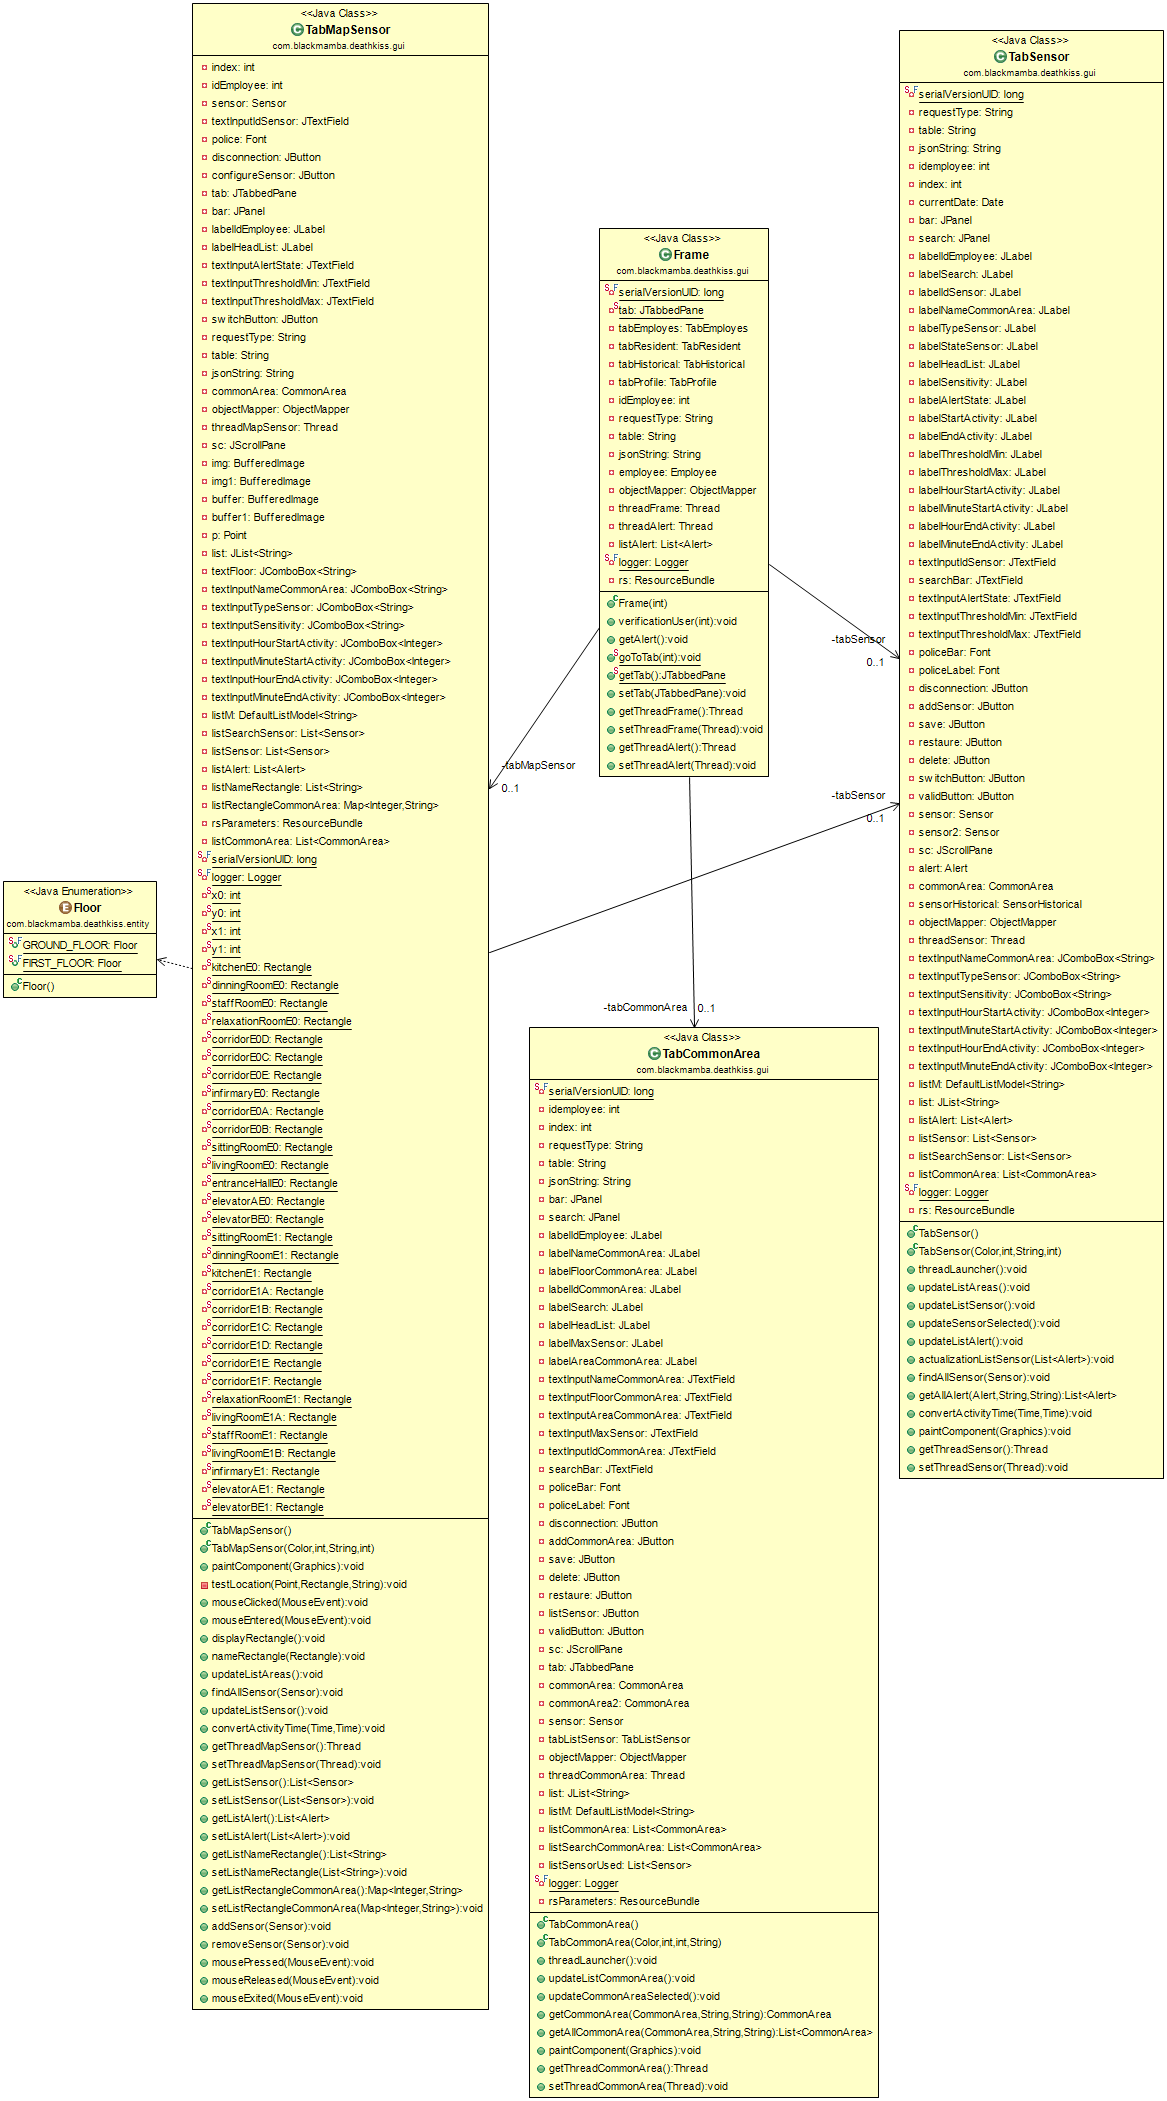
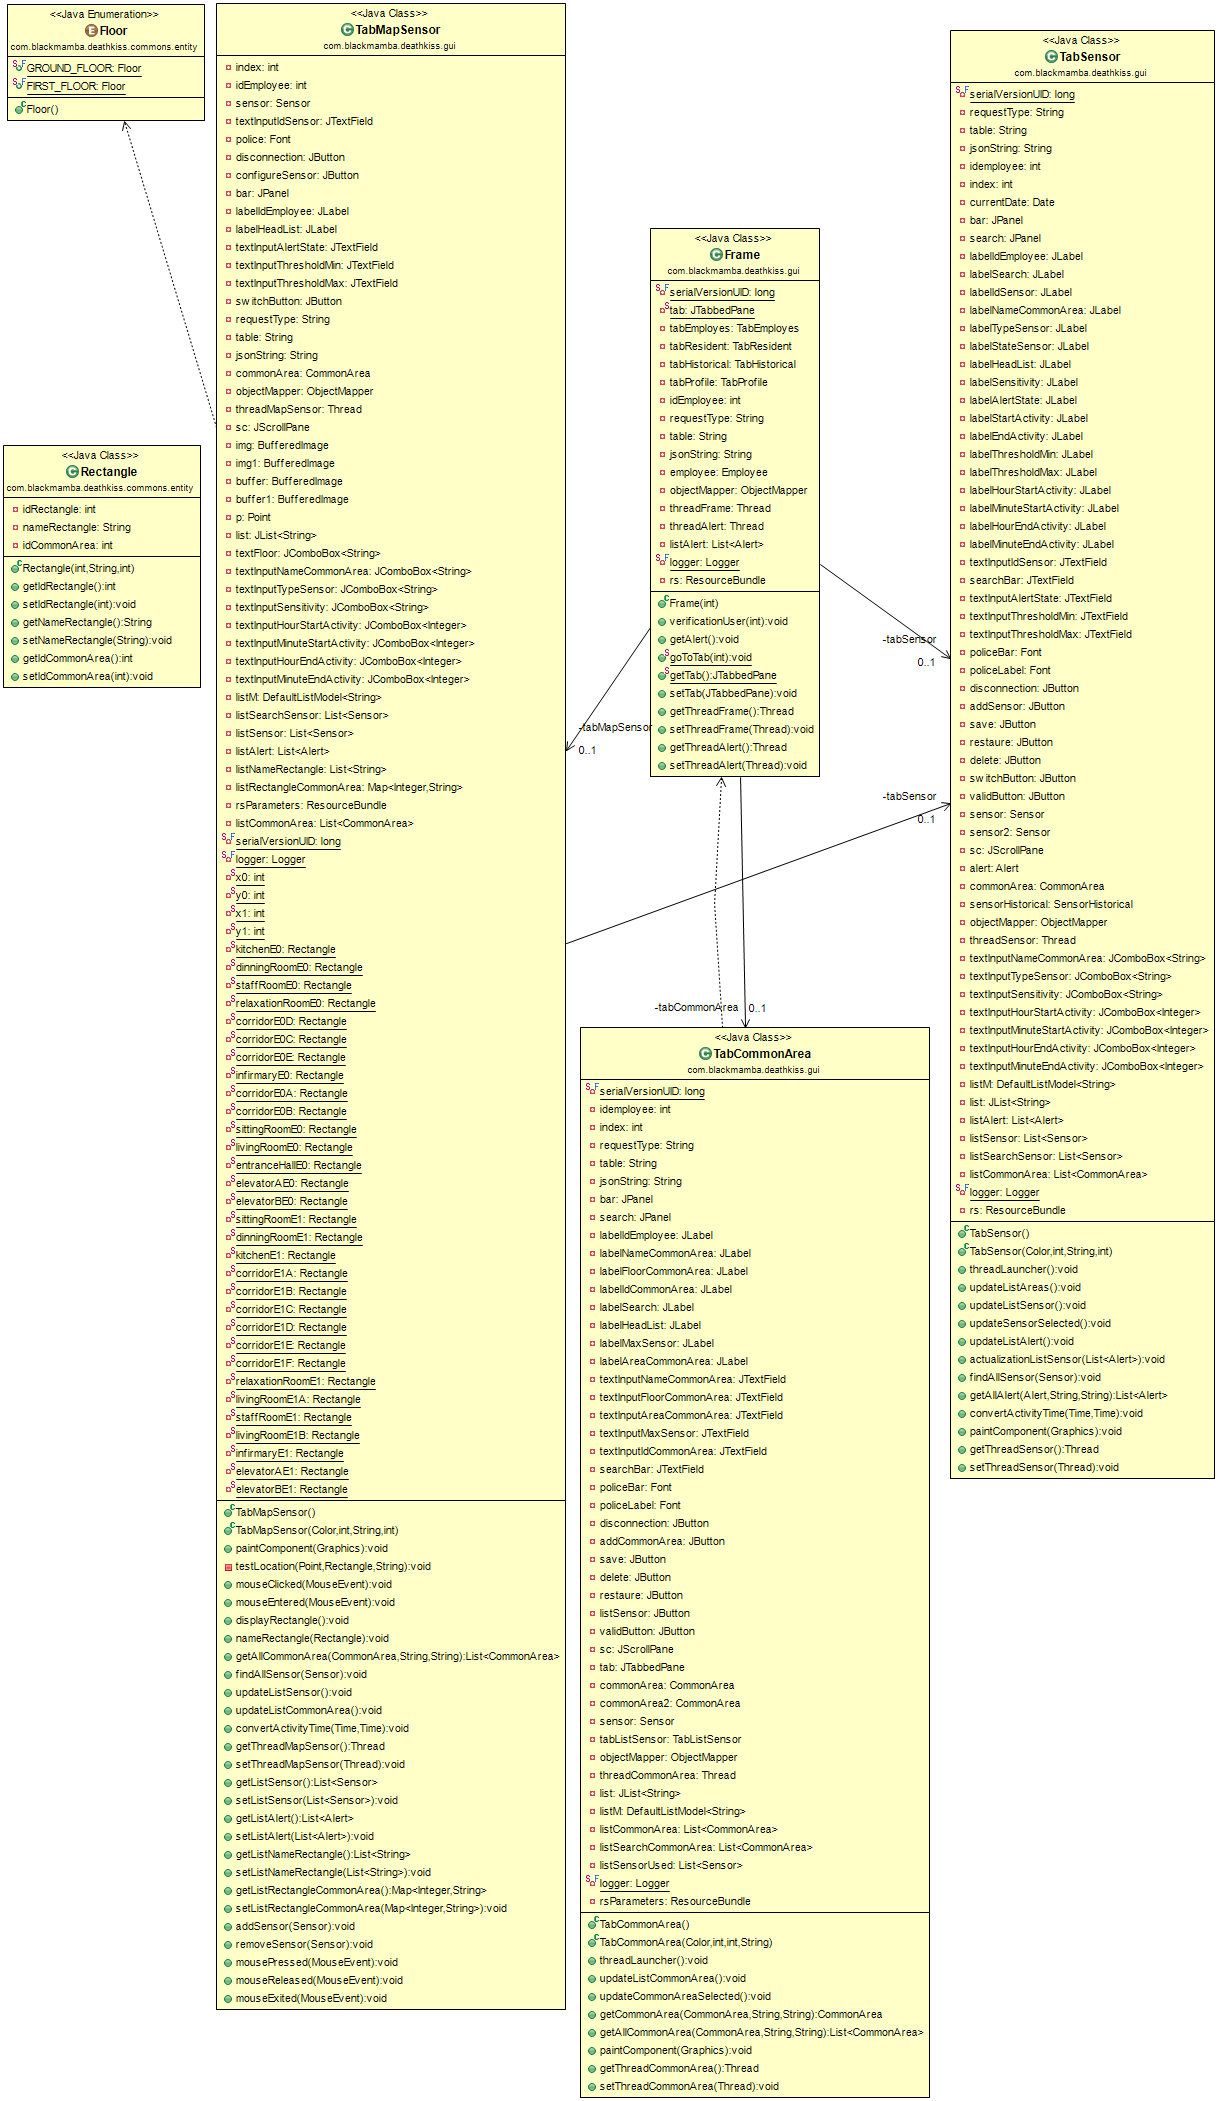
V0.3.19

Changed region(s): [[0.0, 0.0, 1.0, 1.0]]

diff --git a/commons/src/main/java/com/blackmamba/deathkiss/commons/entity/Rectangle.java b/commons/src/main/java/com/blackmamba/deathkiss/commons/entity/Rectangle.java
@@ -1,0 +1,67 @@
+package com.blackmamba.deathkiss.commons.entity;
+
+public class Rectangle {
+
+	/**
+	 * Different parameters used
+	 */
+	private int idRectangle = 0;
+	private String nameRectangle = "";
+	private int idCommonArea = 0;
+	
+	/**
+	 * 
+	 * @param idRectangle
+	 * @param nameRectangle
+	 * @param idCommonArea
+	 */
+	public Rectangle(int idRectangle, String nameRectangle, int idCommonArea) {
+		super();
+		this.idRectangle = idRectangle;
+		this.nameRectangle = nameRectangle;
+		this.idCommonArea = idCommonArea;
+	}
+	/**
+	 * 
+	 * @return
+	 */
+	public int getIdRectangle() {
+		return idRectangle;
+	}
+	/**
+	 * 
+	 * @param idRectangle
+	 */
+	public void setIdRectangle(int idRectangle) {
+		this.idRectangle = idRectangle;
+	}
+	/**
+	 * 
+	 * @return
+	 */
+	public String getNameRectangle() {
+		return nameRectangle;
+	}
+	/**
+	 * 
+	 * @param nameRectangle
+	 */
+	public void setNameRectangle(String nameRectangle) {
+		this.nameRectangle = nameRectangle;
+	}
+	/**
+	 * 
+	 * @return
+	 */
+	public int getIdCommonArea() {
+		return idCommonArea;
+	}
+	/**
+	 * 
+	 * @param idCommonArea
+	 */
+	public void setIdCommonArea(int idCommonArea) {
+		this.idCommonArea = idCommonArea;
+	}
+
+}

diff --git a/gui/src/main/java/com/blackmamba/deathkiss/gui/TabMapSensor.java b/gui/src/main/java/com/blackmamba/deathkiss/gui/TabMapSensor.java
@@ -52,7 +52,6 @@ import com.fasterxml.jackson.databind.ObjectMapper;
  * @author Raymond
  *
  */
-
 public class TabMapSensor extends JPanel implements MouseListener {
 
 	private int index;
